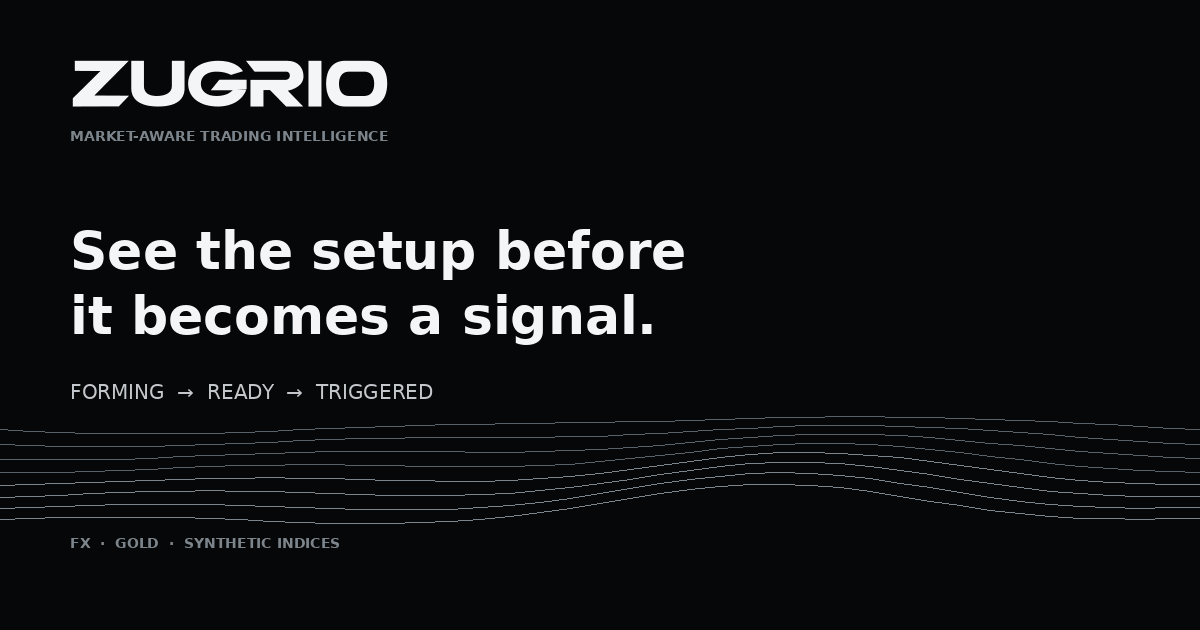
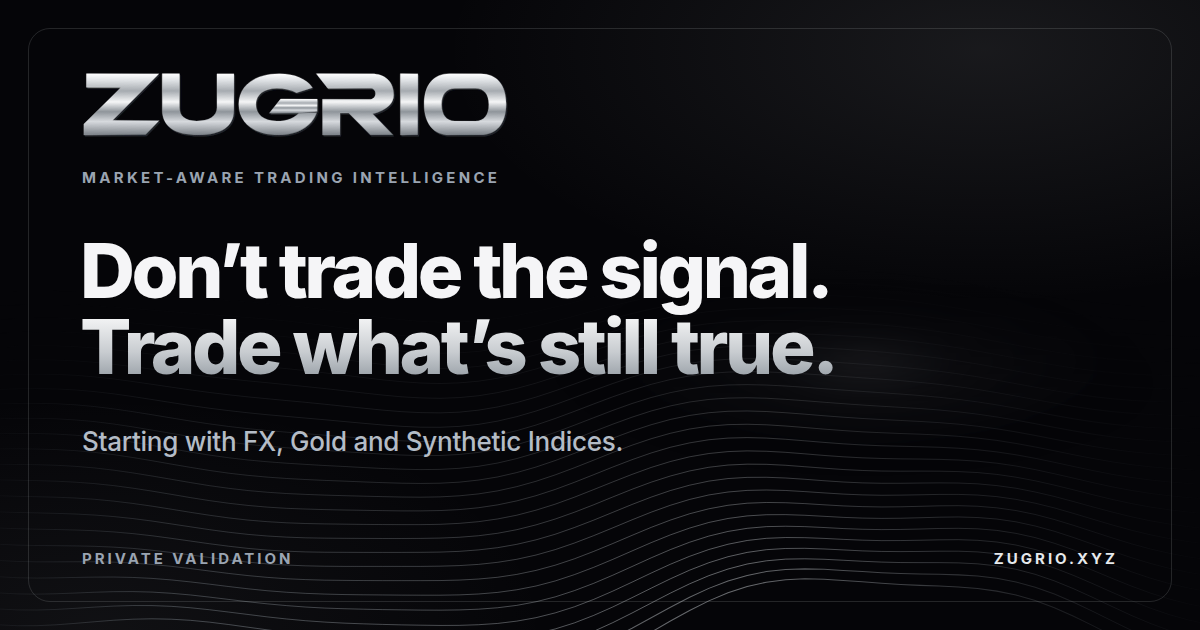
feat(landing): rebuild the link-sharing (OG) card (#110)
New 1200x630 OG card composed from canonical brand vectors (signature metallic wordmark, topography field, Inter) with the live page headline; og:image/twitter:image URLs versioned (?v=2). Source and build script included. No AI-generated art per the brand standard.

Rollback: revert this commit.

Claude-Session: https://claude.ai/code/session_01McxV6f8u98JZtBYcnFtveo

diff --git a/prototypes/landing-v3-react/scripts/og-card.html b/prototypes/landing-v3-react/scripts/og-card.html
@@ -1,0 +1,43 @@
+<!doctype html>
+<!--
+  Source for public/brand/zugrio-og-card.png (1200x630).
+  Composed from canonical brand vectors only (brand/v1.0.0/exports signature metallic
+  wordmark + the site's topography field) and Inter. No AI-generated art is used, per
+  docs/brand/BRAND_ASSET_SOURCE_OF_TRUTH_STANDARD.md. Rebuild: node scripts/build-og-card.mjs
+-->
+<html lang="en">
+<head>
+<meta charset="utf-8" />
+<style>
+  @font-face{font-family:"InterOG";font-weight:100 900;src:url("../node_modules/@fontsource-variable/inter/files/inter-latin-wght-normal.woff2") format("woff2")}
+  *{box-sizing:border-box;margin:0;padding:0}
+  html,body{width:1200px;height:630px;background:#050508;overflow:hidden}
+  .card{position:relative;width:1200px;height:630px;overflow:hidden;font-family:"InterOG",system-ui,sans-serif;color:#f5f5f7;
+    background:
+      radial-gradient(900px 420px at 82% 8%,rgba(200,204,208,.10),transparent 60%),
+      radial-gradient(700px 360px at 8% 100%,rgba(200,204,208,.06),transparent 65%),
+      #050508}
+  .topo{position:absolute;left:-40px;right:-40px;bottom:-30px;height:400px;background:url("../public/brand/market-topography-field.svg") center/cover no-repeat;opacity:1;
+    -webkit-mask-image:linear-gradient(180deg,transparent,#000 38%,#000 100%);mask-image:linear-gradient(180deg,transparent,#000 38%,#000 100%)}
+  .frame{position:absolute;inset:28px;border:1px solid rgba(200,204,208,.16);border-radius:22px}
+  .wm{position:absolute;left:80px;top:70px;width:430px;height:auto;display:block}
+  .eyebrow{position:absolute;left:82px;top:168px;font-size:15px;font-weight:700;letter-spacing:.22em;color:#9aa4b1}
+  h1{position:absolute;left:80px;top:232px;font-size:76px;line-height:1.0;font-weight:800;letter-spacing:-.045em;color:#f5f5f7}
+  h1 span{display:block;background:linear-gradient(180deg,#ffffff 0%,#c8ccd0 58%,#8f979f 100%);-webkit-background-clip:text;background-clip:text;color:transparent}
+  .sub{position:absolute;left:82px;top:424px;font-size:26px;font-weight:500;letter-spacing:-.01em;color:#b4bcc6;max-width:760px;line-height:1.35}
+  .foot{position:absolute;left:82px;bottom:62px;right:82px;display:flex;justify-content:space-between;align-items:center;font-size:15px;font-weight:700;letter-spacing:.2em;color:#9aa4b1}
+  .foot b{color:#e6e9ec;font-weight:700}
+</style>
+</head>
+<body>
+<div class="card">
+  <div class="topo"></div>
+  <div class="frame"></div>
+  <img class="wm" src="../../../brand/v1.0.0/exports/ZUGRIO_WORDMARK_SIGNATURE_METALLIC.svg" alt="Zugrio" />
+  <div class="eyebrow">MARKET-AWARE TRADING INTELLIGENCE</div>
+  <h1>Don’t trade the signal.<span>Trade what’s still true.</span></h1>
+  <div class="sub">Starting with FX, Gold and Synthetic Indices.</div>
+  <div class="foot"><span>PRIVATE VALIDATION</span><b>ZUGRIO.XYZ</b></div>
+</div>
+</body>
+</html>

diff --git a/prototypes/landing-v3-react/index.html b/prototypes/landing-v3-react/index.html
@@ -12,15 +12,15 @@
     <meta property="og:type" content="website" />
     <meta property="og:url" content="https://zugrio.xyz/" />
     <meta property="og:title" content="Zugrio — Don’t trade the signal. Trade what’s still true." />
-    <meta property="og:image" content="https://zugrio.xyz/brand/zugrio-og-card.png" />
+    <meta property="og:image" content="https://zugrio.xyz/brand/zugrio-og-card.png?v=2" />
     <meta property="og:image:width" content="1200" />
     <meta property="og:image:height" content="630" />
-    <meta property="og:image:alt" content="Zugrio — market-aware trading intelligence" />
+    <meta property="og:image:alt" content="Zugrio — Don’t trade the signal. Trade what’s still true." />
     <meta property="og:description" content="Market-aware trading intelligence for FX, Gold and Synthetic Indices. Find setups for your strategy and recheck the entry until you act." />
     <meta name="twitter:card" content="summary_large_image" />
     <meta name="twitter:title" content="Zugrio — Don’t trade the signal. Trade what’s still true." />
-    <meta name="twitter:image" content="https://zugrio.xyz/brand/zugrio-og-card.png" />
-    <meta name="twitter:image:alt" content="Zugrio — market-aware trading intelligence" />
+    <meta name="twitter:image" content="https://zugrio.xyz/brand/zugrio-og-card.png?v=2" />
+    <meta name="twitter:image:alt" content="Zugrio — Don’t trade the signal. Trade what’s still true." />
     <meta name="twitter:description" content="Market-aware trading intelligence for FX, Gold and Synthetic Indices. Find setups for your strategy and recheck the entry until you act." />
     <title>Zugrio — Don’t trade the signal. Trade what’s still true.</title>
   </head>
